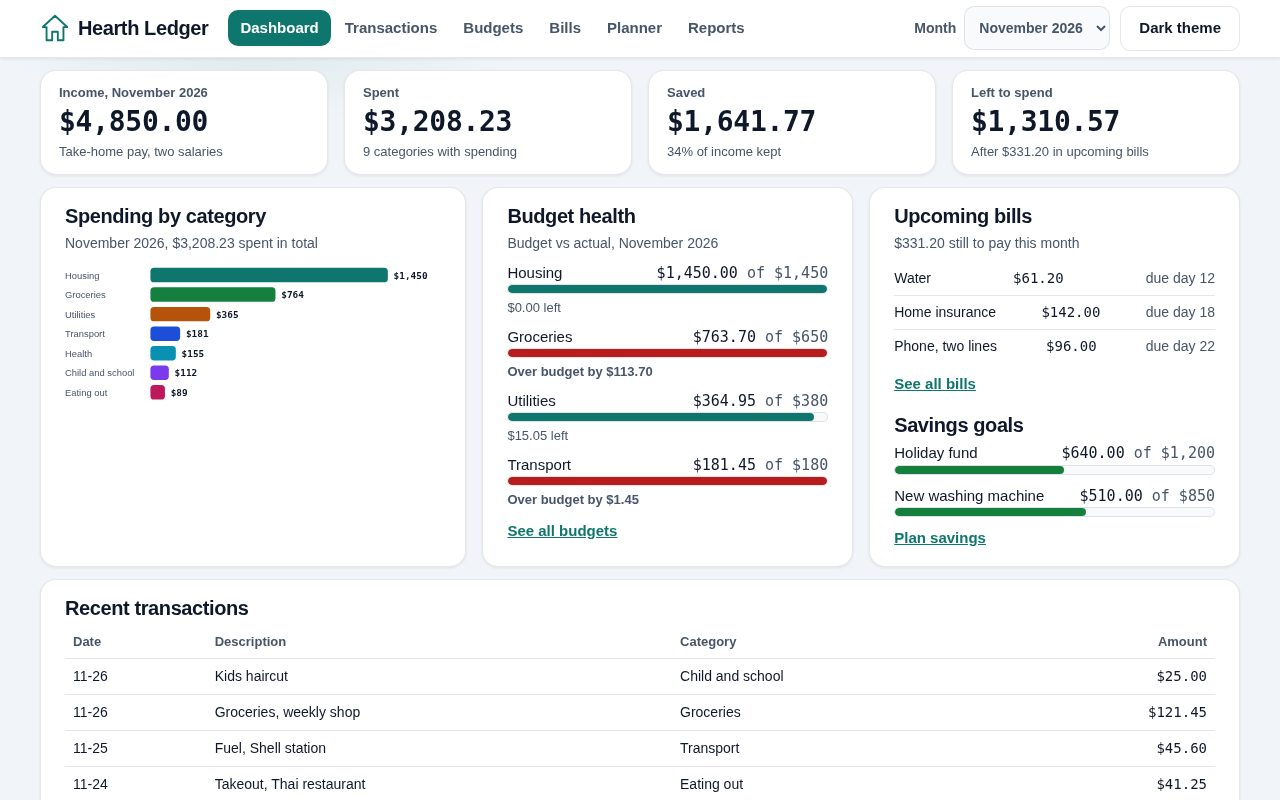
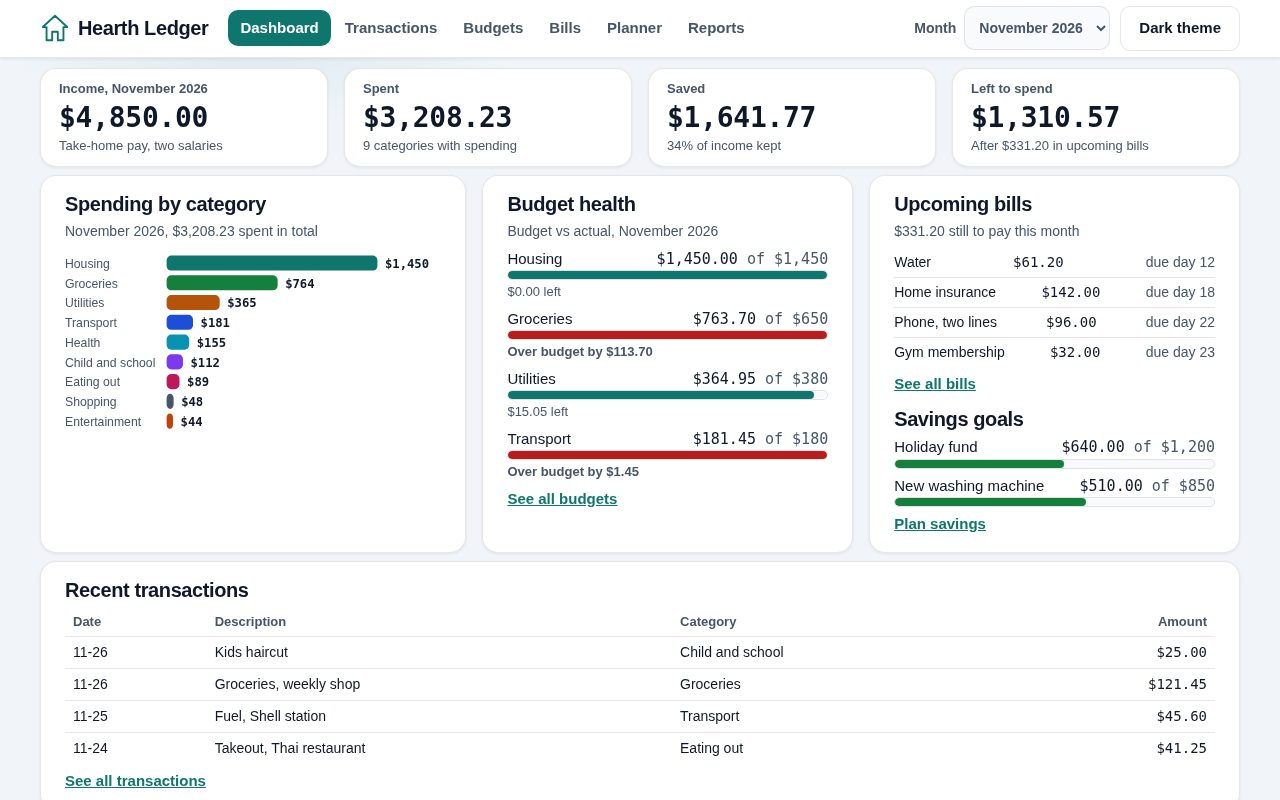
Fix verifier defects: all 9 chart bars, all 4 upcoming bills, full bills shot, honest phone theme label

diff --git a/app/style.css b/app/style.css
@@ -134,7 +134,7 @@ html[data-theme="dark"] .btn-ghost { background: transparent; color: var(--ink);
 html[data-theme="dark"] .link-btn { color: #2dd4bf; }
 
 /* Page layout */
-.page { max-width: 1240px; margin: 0 auto; padding: 12px 20px 20px; position: relative; }
+.page { max-width: 1240px; margin: 0 auto; padding: 10px 20px 20px; position: relative; }
 .card {
   background: var(--bg-surface);
   border: 1px solid var(--border);
@@ -143,14 +143,14 @@ html[data-theme="dark"] .link-btn { color: #2dd4bf; }
   margin-bottom: 16px;
   box-shadow: var(--shadow);
 }
-.card-note { margin: 0 0 8px; color: var(--ink-muted); font-size: 14px; }
-.card-link { display: inline-block; margin-top: 10px; font-weight: 600; }
-.summary-row { display: grid; grid-template-columns: repeat(4, 1fr); gap: 16px; margin-bottom: 12px; }
+.card-note { margin: 0 0 6px; color: var(--ink-muted); font-size: 14px; }
+.card-link { display: inline-block; margin-top: 6px; font-weight: 600; }
+.summary-row { display: grid; grid-template-columns: repeat(4, 1fr); gap: 16px; margin-bottom: 8px; }
 .stat-card {
   background: var(--bg-surface);
   border: 1px solid var(--border);
   border-radius: var(--radius-card);
-  padding: 12px 18px;
+  padding: 10px 18px;
   box-shadow: var(--shadow);
   min-width: 0;
   transition: transform 160ms var(--ease-out);
@@ -158,10 +158,10 @@ html[data-theme="dark"] .link-btn { color: #2dd4bf; }
 .stat-card:hover { transform: translateY(-2px); }
 .stat-label { font-size: 13px; font-weight: 600; color: var(--ink-muted); margin-bottom: 4px; }
 .stat-value { font-size: 28px; line-height: 1.15; font-weight: 700; letter-spacing: -0.01em; }
-.stat-sub { font-size: 13px; color: var(--ink-muted); margin-top: 4px; }
-.dash-grid { display: grid; grid-template-columns: 1.15fr 1fr 1fr; gap: 16px; margin-bottom: 12px; }
+.stat-sub { font-size: 13px; color: var(--ink-muted); margin-top: 2px; }
+.dash-grid { display: grid; grid-template-columns: 1.15fr 1fr 1fr; gap: 16px; margin-bottom: 8px; }
 .dash-grid > .card { margin-bottom: 0; }
-.stack-heading { margin-top: 18px; }
+.stack-heading { margin-top: 12px; }
 
 /* Bars and lists */
 .bar { height: 10px; border-radius: 999px; background: var(--bg-elevated); border: 1px solid var(--border); overflow: hidden; }
@@ -170,13 +170,13 @@ html[data-theme="dark"] .link-btn { color: #2dd4bf; }
 .bar-fill.over { background: var(--over); }
 .bar-fill.goal { background: var(--good); }
 .budget-list, .goal-list, .bill-list, .budget-page-list, .goal-page-list, .bill-page-list, .top-list { list-style: none; margin: 0; padding: 0; }
-.budget-list li { margin-bottom: 8px; }
+.budget-list li { margin-bottom: 6px; }
 .budget-list li:last-child { margin-bottom: 0; }
 .budget-row { display: flex; justify-content: space-between; gap: 12px; align-items: baseline; }
-.budget-state { font-size: 13px; color: var(--ink-muted); margin-top: 4px; }
-.bill-list li { display: flex; justify-content: space-between; gap: 8px; padding: 6px 0; border-bottom: 1px solid var(--border); font-size: 14px; }
+.budget-state { font-size: 13px; color: var(--ink-muted); margin-top: 2px; }
+.bill-list li { display: flex; justify-content: space-between; gap: 8px; padding: 4px 0; border-bottom: 1px solid var(--border); font-size: 14px; }
 .bill-list li:last-child { border-bottom: none; }
-.goal-list li { margin-bottom: 10px; }
+.goal-list li { margin-bottom: 6px; }
 .goal-list li:last-child { margin-bottom: 0; }
 .alert {
   background: #fef3c7;
@@ -208,13 +208,13 @@ html[data-theme="dark"] .ok-note { background: #052e16; border-color: #15803d; c
 
 /* Tables */
 .tx-table { width: 100%; border-collapse: collapse; font-size: 14px; }
-.tx-table th, .tx-table td { text-align: left; padding: 7px 8px; border-bottom: 1px solid var(--border); }
+.tx-table th, .tx-table td { text-align: left; padding: 5px 8px; border-bottom: 1px solid var(--border); }
 .tx-table th { color: var(--ink-muted); font-size: 13px; }
 .tx-table .num { text-align: right; white-space: nowrap; }
 .tx-table tr:last-child td { border-bottom: none; }
 
 /* Forms */
-.tx-form { display: flex; flex-wrap: wrap; gap: 12px; align-items: end; margin-bottom: 10px; }
+.tx-form { display: flex; flex-wrap: wrap; gap: 12px; align-items: end; margin-bottom: 6px; }
 .tx-form label { display: flex; flex-direction: column; gap: 4px; font-size: 13px; font-weight: 600; color: var(--ink-muted); }
 .filters { display: flex; flex-wrap: wrap; gap: 12px; margin-bottom: 16px; }
 .filters label { display: flex; flex-direction: column; gap: 4px; font-size: 13px; font-weight: 600; color: var(--ink-muted); }
@@ -227,7 +227,7 @@ html[data-theme="dark"] .ok-note { background: #052e16; border-color: #15803d; c
   grid-template-columns: 1.4fr auto auto auto auto;
   gap: 12px;
   align-items: center;
-  padding: 9px 0;
+  padding: 5px 0;
   border-bottom: 1px solid var(--border);
 }
 .bill-page-list li:last-child { border-bottom: none; }
@@ -238,7 +238,7 @@ html[data-theme="dark"] .ok-note { background: #052e16; border-color: #15803d; c
 .bill-days.warn { color: var(--warn); font-weight: 700; }
 
 /* Planner */
-.planner-layout { display: grid; grid-template-columns: 1.15fr 1fr; gap: 16px; margin-bottom: 16px; }
+.planner-layout { display: grid; grid-template-columns: 1.15fr 1fr; gap: 16px; margin-bottom: 8px; }
 .planner-layout > .card { margin-bottom: 0; }
 .stat-2col { grid-template-columns: repeat(2, 1fr); }
 .goal-cols { display: grid; grid-template-columns: 1fr 1fr; gap: 28px; }
@@ -246,14 +246,14 @@ html[data-theme="dark"] .ok-note { background: #052e16; border-color: #15803d; c
 .planner-grid { display: grid; grid-template-columns: 200px 1fr; gap: 24px; align-items: start; }
 .legend { display: flex; flex-direction: column; gap: 6px; margin-top: 4px; font-size: 14px; }
 .legend i { display: inline-block; width: 12px; height: 12px; border-radius: 3px; margin-right: 8px; }
-.plan-list li { padding: 4px 0; border-bottom: 1px solid var(--border); }
+.plan-list li { padding: 2px 0; border-bottom: 1px solid var(--border); }
 .plan-list li:last-child { border-bottom: none; }
 .plan-name { font-weight: 700; font-size: 16px; }
-.plan-hint { margin: 2px 0 4px; color: var(--ink-muted); font-size: 14px; }
-.goal-page-list li { padding: 16px 0; border-bottom: 1px solid var(--border); }
+.plan-hint { margin: 1px 0 3px; color: var(--ink-muted); font-size: 14px; }
+.goal-page-list li { padding: 8px 0; border-bottom: 1px solid var(--border); }
 .goal-page-list li:last-child { border-bottom: none; }
 .goal-name { font-weight: 700; font-size: 16px; }
-.goal-form { display: flex; flex-wrap: wrap; gap: 12px; align-items: end; margin-top: 8px; }
+.goal-form { display: flex; flex-wrap: wrap; gap: 12px; align-items: end; margin-top: 4px; }
 .goal-form label { display: flex; flex-direction: column; gap: 4px; font-size: 13px; font-weight: 600; color: var(--ink-muted); }
 
 /* Reports */

diff --git a/app/views.js b/app/views.js
@@ -30,9 +30,8 @@ export function renderDashboard(state) {
   const totals = categoryTotals(state).sort((a, b) => b.spent - a.spent);
   const chartRows = totals
     .filter((t) => t.spent > 0)
-    .slice(0, 7)
     .map((t) => ({ label: t.name, value: t.spent, color: t.color, text: formatMoneyShort(t.spent) }));
-  const bills = state.bills.filter((b) => !isBillPaid(state, b.id)).slice(0, 3);
+  const bills = state.bills.filter((b) => !isBillPaid(state, b.id));
   const recent = monthTransactions(state).slice(0, 4);
   const summary = [
     { label: "Income, " + monthLabel(state), value: formatMoney(income), sub: "Take-home pay, two salaries" },
@@ -48,7 +47,7 @@ export function renderDashboard(state) {
     <section class="card chart-card">
       <h2>Spending by category</h2>
       <p class="card-note">${monthLabel(state)}, ${formatMoney(spent)} spent in total</p>
-      ${buildCategoryBarChart(chartRows, 520)}
+      ${buildCategoryBarChart(chartRows, 400)}
     </section>
     <section class="card">
       <h2>Budget health</h2>
@@ -175,6 +174,10 @@ export function renderBillsPage(state) {
   const paid = rows.filter((b) => b.paid);
   const unpaidTotal = unpaid.reduce((sum, b) => sum + b.amount, 0);
   const paidTotal = paid.reduce((sum, b) => sum + b.amount, 0);
+  const autoBills = rows.filter((b) => b.autopay);
+  const handBills = rows.filter((b) => !b.autopay);
+  const autoTotal = autoBills.reduce((sum, b) => sum + b.amount, 0);
+  const handTotal = handBills.reduce((sum, b) => sum + b.amount, 0);
   const rowHtml = (b) => `<li class="bill-row ${b.paid ? "is-paid" : ""}">
     <div class="bill-main"><span class="bill-name">${escapeHtml(b.name)}</span>
     <span class="muted">${b.autopay ? "Autopay on" : "Pay by hand"}</span></div>
@@ -195,6 +198,7 @@ export function renderBillsPage(state) {
       <div class="stat-card"><div class="stat-label">Monthly bill total</div><div class="stat-value">${formatMoney(unpaidTotal + paidTotal)}</div><div class="stat-sub">${state.bills.length} recurring bills</div></div>
       <div class="stat-card"><div class="stat-label">Next due</div><div class="stat-value">${unpaid.length ? escapeHtml(urgent.name) : "None"}</div><div class="stat-sub">${urgentSub}</div></div>
     </div>
+    <p class="card-note">Autopay covers ${autoBills.length} bills (${formatMoney(autoTotal)} a month). ${handBills.length} bills are paid by hand (${formatMoney(handTotal)}).</p>
   </section>
   <section class="card">
     <h2>Upcoming bills</h2>

diff --git a/app/charts.js b/app/charts.js
@@ -3,20 +3,20 @@
 // so the first load stays small and the charts are part of the source.
 export function buildCategoryBarChart(rows, width) {
   const w = width || 560;
-  const rowH = 27;
+  const rowH = 21;
   const h = rows.length * rowH + 8;
   const max = Math.max(...rows.map((r) => r.value), 1);
-  const labelW = 118;
-  const valueW = 74;
+  const labelW = 108;
+  const valueW = 68;
   const barW = w - labelW - valueW;
   const bars = rows
     .map((row, i) => {
       const y = 8 + i * rowH;
       const bw = Math.max(2, (row.value / max) * barW);
       return (
-        `<text x="0" y="${y + 15}" class="chart-label">${escapeHtml(row.label)}</text>` +
-        `<rect x="${labelW}" y="${y}" width="${bw}" height="20" rx="5" fill="${row.color}" />` +
-        `<text x="${labelW + bw + 8}" y="${y + 15}" class="chart-value">${row.text}</text>`
+        `<text x="0" y="${y + 13}" class="chart-label">${escapeHtml(row.label)}</text>` +
+        `<rect x="${labelW}" y="${y}" width="${bw}" height="16" rx="5" fill="${row.color}" />` +
+        `<text x="${labelW + bw + 8}" y="${y + 13}" class="chart-value">${row.text}</text>`
       );
     })
     .join("");

diff --git a/app/tools.js b/app/tools.js
@@ -36,7 +36,7 @@ export function renderPlannerPage(state) {
   <div class="planner-layout">
   <section class="card">
     <h2>50/30/20 planner</h2>
-    <p class="card-note">Split the monthly take-home pay of ${formatMoney(income)} into needs, wants and savings.</p>
+    <p class="card-note">Split the monthly take-home pay of ${formatMoney(income)} into needs, wants and savings. This month: ${formatMoney(monthSpent(state))} spent, ${formatMoney(savedActual)} saved.</p>
     <form class="tx-form" data-form="income">
       <label>Monthly take-home pay ($) <input type="number" name="income" min="0" step="1" value="${income}" required></label>
       <button type="submit" class="btn">Update income</button>
